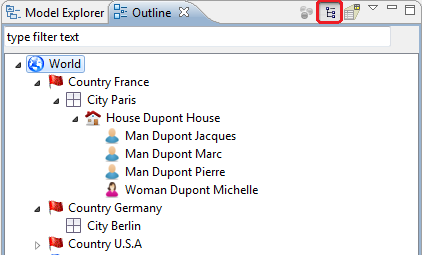
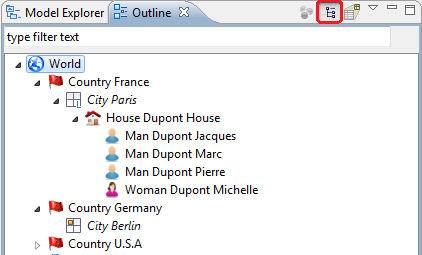
[436359] Update documentation after compartment related improvements

Changed region(s): [[0.1848, 0.851, 0.3389, 0.9059], [0.1848, 0.3569, 0.3389, 0.4118], [0.154, 0.851, 0.1848, 0.8784]]

diff --git a/plugins/org.eclipse.sirius.doc/doc/user/diagrams/Diagrams.html b/plugins/org.eclipse.sirius.doc/doc/user/diagrams/Diagrams.html
@@ -287,7 +287,7 @@
 			<img border="0" src="images/reset_origin_masked_edge.png"/>
 		</p>
 		<h3 id="Hidingelements">Hiding elements</h3>
-		<p>Every graphical element on a diagram can be hidden explicitly. To do that, simply right click on the graphical element (or elements if you want to hide several elements at once) you want to hide. Then, choose 
+		<p>Every graphical element on a diagram except compartments can be hidden explicitly. To do that, simply right click on the graphical element (or elements if you want to hide several elements at once) you want to hide. Then, choose 
 			<i>Show/Hide</i> / 
 			<i>Hide Element</i>. The graphical element is now hidden from view.
 		</p>
@@ -298,12 +298,18 @@
 		<p>	
 			<img border="0" src="images/diagram_editor12.png"/>
 		</p>
+		<p>The element can also be hidden from the tool-bar using the 
+			<i>Hide element</i> button.
+		</p>
+		<p>	
+			<img border="0" src="images/diagram_editor11_tabbar.png"/>
+		</p>
 		<p>It is also possible to hide an element from the outline view. Choose outline mode to see the semantic model in a tree viewer. You can now right click on an element and choose 
 			<em>Hide element</em>.
 		</p>
 		<p>There are two ways to reveal hidden elements:</p>
 		<ul>
-			<li>on the outline view, in outline mode, you can see every model element. The elements that are hidden have their names displayed in italic style. To reveal one of this element, simply right click on it and choose 
+			<li>on the outline view, in outline mode, you can see every model element. The elements that are hidden have their names displayed in italic style and their icon is decorated with a yellow dot in the top left corner. To reveal one of this element, simply right click on it and choose 
 				<i>Show element</i>.
 			</li>
 		</ul>
@@ -323,18 +329,49 @@
 		<p>	
 			<img border="0" src="images/diagram_editor_show_hide_dialog2.png"/>
 		</p>
+		<p>Some elements might be grayed in this tree (compartments, Sequence diagram elements, ..), their selection will have no effect. Their grayed status indicates that they can not be hidden from the wizard but their children might support it.</p>
 		<p>You can also use 
-			<a href="#UsingRegularExpressionstoFindDiagramElements">regular expressions</a> to easily retrieve the elements you want to hide/reveal.
+			<a href="#UsingRegularExpressionstoFindDiagramElements">regular expressions</a> to easily retrieve the elements you want to hide/reveal. 
 		</p>
 		<h4 id="Hidinglabels">Hiding labels</h4>
-		<h5 id="Nodeslabels">Nodes labels</h5>
-		<p>It is also possible to hide the node label if it is on the border of its node.</p>
-		<p>The approach is the same as for other elements, except that there are a specific menus named &#171;Hide/Show Label&#187;. It is possible to call this menu directly on the label or on its node.</p>
+		<p>It is also possible to hide the label of graphical elements (see the node labels section for nodes supported case).</p>
+		<p>The approach is the same as for other elements, except that there are a specific menus named &#171;Hide/Show Label&#187;. It is possible to call this menu directly on the label or on its element.</p>
 		<p>	
 			<img border="0" src="images/diagram_editor_hide_label_1.png"/>
 		</p>
+		<p>The tool-bar button 
+			<em>Hide label</em> can also be used.
+		</p>
+		<p>	
+			<img border="0" src="images/diagram_editor_hide_label_tabbar.png"/>
+		</p>
+		<p>It is also possible to hide or reveal a label from the outline view, in outline mode. The elements whose label is hidden have their names displayed in italic style and their icon is decorated with a 
+			<i>L</i> in the bottom right corner. To reveal a label, simply right click on it and choose 
+			<i>Show label</i>.
+		</p>
+		<p>	
+			<img border="0" src="images/diagram_editor_hide_label_outline.png"/>
+		</p>
+		<p>When there is no selected element on the diagram, 
+			<em>Show/Hide</em> tab bar button allows to manage the labels too.
+		</p>
+		<h5 id="ContainersListsandcompartmentslabels">Containers, Lists and compartments labels</h5>
+		<p><div style="display:none">
+			<br/>   TODO Correct displayed name for compartments: DNodeContainer name and not smeantic elemnt label ?
+			<br/>	
+			<img border="0" src="images/diagram_editor_hide_container_list_region_label_1.png"/>
+			<br/></div>
+		</p>
+		<p>Labels of containers, lists and compartment might be hidden by default. You can choose to display them using the outline, contextual menu or 
+			<em>Show/Hide</em> tree view.
+		</p>
+		<h5 id="Nodeslabels">Nodes labels</h5>
+		<p>It is possible to hide the node label only if it is on the border of its node. Those nodes can have their label hidden by default. You can choose to display them using the outline, contextual menu or 
+			<em>Show/Hide</em> tree view.
+		</p>
 		<h5 id="Edgeslabels">Edges labels</h5>
-		<p>It is also possible to hide the edge label. The approach is the same than the nodes labels with the specific menus &#171;Hide/Show Label&#187; called from the edge or its label.</p>
+		<p>It is also possible to hide the edge labels. </p>
+		<p>The approach is the same than the nodes labels with the specific menus &#171;Hide/Show Label&#187; called from the edge or its label.</p>
 		<p>	
 			<img border="0" src="images/diagram_editor_hide_edge_label_1.png"/>
 		</p>
@@ -523,7 +560,7 @@
 			<li>Pin/unpin information are persistent and saved in 
 				<i>.aird</i> session file.
 			</li>
-			<li>it is not possible to pin/unpin edges.</li>
+			<li>it is not possible to pin/unpin edges or compartiments.</li>
 		</ul>
 		<h4 id="Configuration">Configuration</h4>
 		<p>Every diagram elements that you move will be pinned by default and will need an unpin operation to be &#171;moveable&#187; again.</p>
@@ -549,6 +586,7 @@
 		<p>	
 			<img border="0" src="images/diagram_editor_pin_dialog2.png"/>
 		</p>
+		<p>Some elements might be grayed in this tree (compartments, Sequence diagram elements, ..), their selection will have no effect. Their grayed status indicates that they do not support the Pin/Unpin but their displayed children might support it. Edges will not be shown as they will never have children in this tree.</p>
 		<p>You can also use 
 			<a href="#UsingRegularExpressionstoFindDiagramElements">RegularExpressions</a> to easily retrieve the elements you want to pin/unpin.
 		</p>
@@ -948,7 +986,7 @@
 			<img border="0" src="images/tabbar_show_hide.png"/> 
 			<em>Show/Hide</em>. You can chose to hide (or reveal) specific diagram elements (or just their labels) independently of the conditions in pre-defined filters. This can be useful if you want to concentrate on specific parts of your model, or if you want hide parts which are not relevant to simplify communication with other people. You can hide elements from their context menu (using the 
 			<em>Show/Hide</em> sub-menu) or more globally by using the 
-			<em>Show/Hide</em> button in the tab-bar. This button opens a dialog box which presents all the elements visible on the diagram, organised in a hierarchical way which corresponds to their graphical organization. Note that because a single semantic element may have multiple representations on the diagram, they may appear multiple times in the dialog box. Making one representation hidden will not hide the other graphical representations of the same element. You can chose which elements should be visible (resp. hidden) on the diagram by checking (resp. unchecking) them in the dialog. The top area of the dialog box contains various buttons to help you find the elements you want, by show only the checked (i.e. visible) or unchecked (i.e. hidden) elements, by expanding or collapsing the tree viewer, or by checking or un-checking all elements at once. You can also search for elements by their name using the search box. For some elements (e.g. edges), you can hide the label (or labels) while keeping the element itself visible. When this is possible, the label is presented as a sub-item of the element in the dialog box, with its own check-box.
+			<em>Show/Hide</em> button in the tab-bar. This button opens a dialog box which presents all the elements visible on the diagram, organised in a hierarchical way which corresponds to their graphical organization. Note that because a single semantic element may have multiple representations on the diagram, they may appear multiple times in the dialog box. Making one representation hidden will not hide the other graphical representations of the same element. You can chose which elements should be visible (resp. hidden) on the diagram by checking (resp. unchecking) them in the dialog. For some elements (e.g. compartments), the hide is not supported and is disabled, these elements will be grayed in the dialog box and checking them will have no effect. The top area of the dialog box contains various buttons to help you find the elements you want, by show only the checked (i.e. visible) or unchecked (i.e. hidden) elements, by expanding or collapsing the tree viewer, or by checking or un-checking all elements at once. You can also search for elements by their name using the search box. For some elements (e.g. edges), you can hide the label (or labels) while keeping the element itself visible. When this is possible, the label is presented as a sub-item of the element in the dialog box, with its own check-box.
 		</p>
 		<p>
 			<img border="0" src="images/diagram_editor_show_hide_dialog2.png"/>
@@ -1038,6 +1076,13 @@
 			<em>Show/Hide</em> button, which opens a dialog box to control the elements' visibility.
 		</p>
 		<p>
+			<img border="0" src="images/tabbar_hide_label.png"/> 
+			<em>Hide</em>. This button hides the label of the selected elements. It can also be invoked with the 
+			<em>Ctrl+L</em> keyboard shortcut. To reveal hidden labels, you can for example deselect all element, and in the diagram&#8217;s tab-bar, choose the 
+			<em>Show/Hide</em> button, which opens a dialog box to control the elements' visibility. You can also select an element without label and use the 
+			<em>Show/Hide / Show label</em> menu.
+		</p>
+		<p>
 			<img border="0" src="images/tabbar_delete_from_diagram.png"/> 
 			<em>Delete from Diagram</em>. This action removes the selected graphical element from the diagram, but does not delete the corresponding semantic elements. It is only available on un-synchronized diagrams or element types.
 		</p>
@@ -1072,8 +1117,8 @@
 			<img border="0" src="images/tabbar_auto_size.png"/> 
 			<em>Auto-Size</em>. This button marks the selected elements as auto-sized. Auto-sized elements will adjust their width an height dynamically according to their contents.
 		</p>
-		<h4 id="ref_tabbar_4x">Tab-bar in Eclipse 4.x</h4>
-		<p>Due to a current limitation, on Eclipse 4.x the tab-bar content does not depend on the current selection and extensibility is not available:
+		<h4 id="ref_tabbar_4x">Tab-bar in Eclipse 4.2 and 4.3</h4>
+		<p>Due to a current limitation, on Eclipse 4.2 and 4.3, the tab-bar content does not depend on the current selection and extensibility is not available:
 			<br/>
 			<img border="0" src="images/tabbar4x01.png"/>
 		</p>
@@ -1119,6 +1164,16 @@
 		</ul>
 		<p>	
 			<img border="0" src="images/diagram_editor5.png"/>
+		</p>
+		<p>To hide/reveal an element or its label in the editor, simply right click an elment in the tree and choose one of the 
+			<i>Hide element</i>, 
+			<i>Hide label</i>, 
+			<i>Show element</i>, 
+			<i>Show label</i> menus. The availability of the menus depends on the state of each element and its support of the &#171;Show/Hide&#187; feature.
+		</p>
+		<p>The hidden elements have their label displayed in italic style and their icon is decorated with a yellow dot in the top left corner.
+			<br/>The elements whose label is hidden have their label displayed in italic style and their icon is decorated with a 
+			<i>L</i> in the bottom right corner.
 		</p>
 		<ul>
 			<li>In 

diff --git a/plugins/org.eclipse.sirius.doc/doc/specifier/diagrams/Diagrams.html b/plugins/org.eclipse.sirius.doc/doc/specifier/diagrams/Diagrams.html
@@ -268,7 +268,16 @@
 				<em>Lists</em>), which are a special kind of containers. They present their direct sub-elements as a vertical list of text items (with an optional icon). List containers are not recursive.
 			</li>
 			<li>
-				<em>Bordered nodes</em> are like normal nodes, but instead of appearing directly on the diagram or inside a container, they are placed on the border of another element (node or container). This is useful to represent things like communication ports.
+				<em>Region Container</em>, which are a special kind of containers. They present their direct sub-container as a vertical or horizontal stack of compartments also called 
+				<em>Regions</em> in Sirius. Region containers are not recursive and can not contain nodes as direct children.
+			</li>
+			<li>
+				<em>Region</em>, which are a special kind of container. They are compartments of a container, organized vertically or horizontally regarding the configuration of their parent Region container. They are 
+				<em>Containers</em> or 
+				<em>List Containers</em> but can not be themselves a Region container.
+			</li>
+			<li>
+				<em>Bordered nodes</em> are like normal nodes, but instead of appearing directly on the diagram or inside a container, they are placed on the border of another element (node, container, list, region container but not region). This is useful to represent things like communication ports.
 			</li>
 			<li>Finally, 
 				<em>Edges</em> are connections between a source and target element. The source and target element can be any of the other kind of graphical element mentioned above. It is also possible for the source or the target of an edge (but not both) to be another edge.
@@ -624,11 +633,31 @@
 		<p id="list_containers">
 			<strong>List Containers</strong> You can enable a special &#171;list mode&#187; for containers by setting the 
 			<em>Children Presentation</em> attribute to 
-			<em>List</em> in the mapping configuration. List containers are represented in a special way, in which only the labels of their direct sub-elements (nodes or containers) are taken into account and presented in a vertical list. When represented as a list, only some of the style attributes (label text, tool-tip, colors) of the container are taken into account. For the list items themselves, only the label text is used.
+			<em>List</em> in the mapping configuration. List containers are represented in a special way, in which only the labels of their direct sub-elements (nodes only) are taken into account and presented in a vertical list. When represented as a list, only some of the style attributes (label text, tool-tip, colors) of the container are taken into account. For the list items themselves, only the label text is used.
 		</p>
 		<p>
 			<img border="0" src="images/styles/List_container_with_items.png"/>
 		</p>
+		<p id="compartments">
+			<strong>Compartments</strong> You can enable a special &#171;compartment mode&#187; for containers by setting the 
+			<em>Children Presentation</em> attribute to 
+			<em>Horizontal Stack</em> or 
+			<em>Vertical Stack</em> in the mapping configuration. Region containers presents their children containers and lists as compartments, vertically or horizontally organized. They are sorted following the mapping order and the semantic candidates expression evaluation result of each mapping. The border style attributes of the Region&#8217;s styles are used to specify the compartments separators. The other style properties of Region container or Region mapping are used as usual.
+		</p>
+		<p>
+			<img border="0" src="images/styles/Containers_with_compartments.png"/>
+		</p>
+		<p>
+			<em>Warning:</em> The compartment feature is new but experimental in Sirius 3.0.0. While working reliably, it has some limitations but you can rely on the improved VSM validation to ensure you are using it in supported modes. Known limitations:
+		</p>
+		<ul>
+			<li>Some formatting or layout-related actions might produce unexpected result (Make same size, width or height, Set style to workspace image). The limitations only concerns the visual aspects, there is no risk of corrupting the underlying models.</li>
+			<li>Only the gradient style is supported for Region container and Region mappings.</li>
+			<li>The Show/Hide, Hide filter features are disabled on regions (hide filter can be created to the compartment content but not the compartment). The Show/Hide label feature is supported.</li>
+			<li>The figure default and minimum size might change in future versions.</li>
+			<li>The move and drag and drop of regions are disabled. Reordering regions can be done by reordering their semantic elements.</li>
+			<li>The resize of compartments might evolve in future versions. The current behavior is to redistribute space between adjacent regions and to resize the first/last region when the region container is resized from top/bottom for a vertical stack and left/right for an horizontal one.</li>
+		</ul>
 		<h4 id="container_styles">Container Styles</h4>
 		<p>See the 
 			<a href="#styling">styles</a> section for a general presentation of how styles are defined, including conditional styles. This section only presents the aspects which are specific to containers.
@@ -1127,7 +1156,7 @@
 			</li>
 			<li>
 				<em>Label border style</em> (only available for a 
-				<em>Flat Container Style</em>): the specifier can choose a label border style among a list. As a result a border will be drawn around the container label.
+				<em>Gradient container style</em>): the specifier can choose a label border style among a list. As a result a border will be drawn or not around the label.
 			</li>
 			<li>
 				<em>Show icon</em> indicates whether or not the element&#8217;s icon should be made visible. If set, the icon used is the one associated with the type of the target element, and is rendered on the left of the label. Note that end-user will always be able to hide such icons by using the 
@@ -1137,6 +1166,9 @@
 				<em>Sirius</em>/ 
 				<em>Sirius Diagram</em>/ 
 				<em>Appearance</em>).
+			</li>
+			<li>
+				<em>Hide label by default</em> (not available for edges) is used to configure the label visibility when an element is created.
 			</li>
 		</ul>
 		<p>While not strictly part of the label properties, a 
